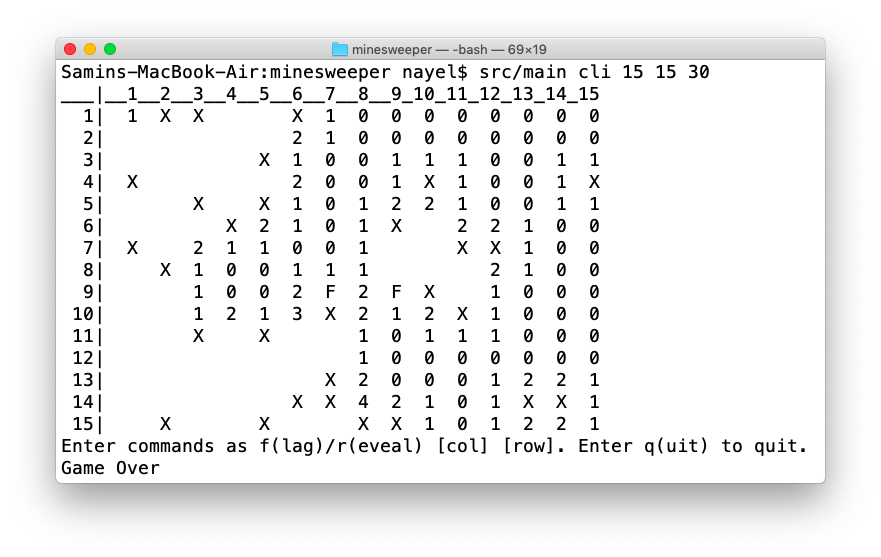
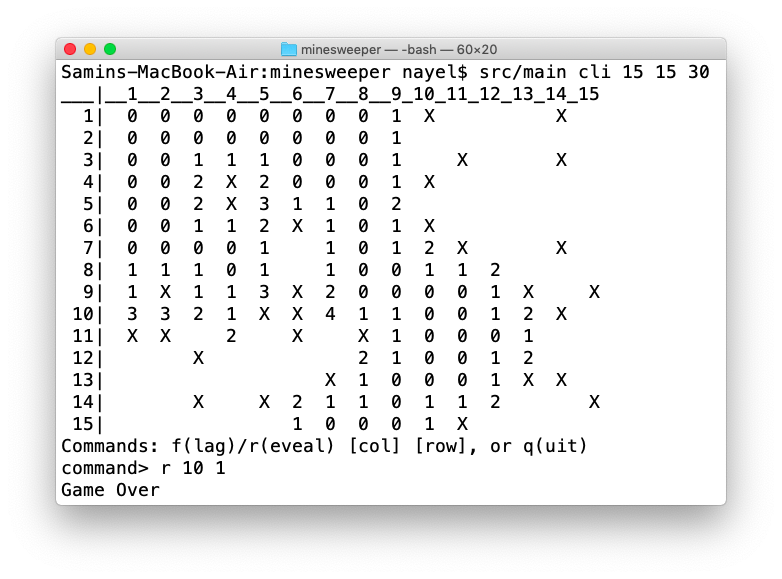
freed getline buffer

diff --git a/cli/cli.c b/cli/cli.c
@@ -3,14 +3,14 @@
 #include <assert.h>
 #include "cli.h"
 
-static const char *erase_line = "\r\e[K";
+static const char *erase_line = "\e[K";
 static const char *go_up = "\e[%dA";
 
 void print_board(const struct board *b) {
 	assert(b);
 	printf("___|");
 	for (int x = 1; x <= b->width; x++) {
-		printf(x < 10? "__%d" : "_%02d", x);
+		printf(x < 10 ? "__%d" : "_%d", x);
 	}
 	printf("\n");
 	for (int y = 1; y <= b->height; y++) {
@@ -23,25 +23,34 @@ void print_board(const struct board *b) {
 }
 
 void print_commands(void) {
-	printf("Enter commands as f(lag)/r(eveal) [col] [row]. Enter q(uit) to quit.\n");
-	printf("command> ");
+	printf("Commands: f(lag)/r(eveal) [col] [row], or q(uit)\n");
+	printf("%scommand> ", erase_line);
 }
 
-static inline int is_digit(char c) { return '0' <= c && c <= '9'; }
+static inline bool is_digit(char c) { return '0' <= c && c <= '9'; }
 
 static inline void ignore_spaces(char *line) { while (*line == ' ') line++; }
 
-// reads two space-separated ints from line and stores them at x and y
-static void read_two_ints(char *line, int *x, int *y) {
+static void parse_command(char *line, char *command, int *x, int *y) {
+	assert(line && command && x && y);
+	char *temp = line;
+
+	ignore_spaces(line);
+	*command = *line; // *command should be the first non-space char in line
+
 	while (line && !is_digit(*line)) { // ignore non-digit characters
 		line++;
 	}
 	*x = atoi(line);
+
 	while (line && is_digit(*line)) { // ignore the digits of *x
 		line++;
 	}
 	ignore_spaces(line);
 	*y = atoi(line);
+
+	// line should originally have been allocated by getline, so free it
+	free(temp);
 }
 
 int play_cli(struct board *b) {
@@ -51,43 +60,41 @@ int play_cli(struct board *b) {
 	// continuously read and execute commands
 	char *line = NULL;
 	size_t n = 0;
+	char command;
 	int x, y;
-	while (getline(&line, &n, stdin)) {
-		ignore_spaces(line);
-		char command = *line;
+	while (getline(&line, &n, stdin) > 0) {
+		parse_command(line, &command, &x, &y);
 		if (command == 'f') {
-			read_two_ints(line, &x, &y);
 			if (flag(b, x, y)) {
 				printf(go_up, b->height + 3);
 				print_board(b);
-				print_commands();
 			} else {
-				printf(go_up, 1);
+				printf(go_up, 2);
 			}
 		} else if (command == 'r') {
-			read_two_ints(line, &x, &y);
 			if (reveal(b, x, y)) {
 				printf(go_up, b->height + 3);
 				print_board(b);
-				print_commands();
 				if (game_won(b)) {
-					printf("%sWell Done\n", erase_line);
+					printf("\n\n%sWell Done\n", erase_line);
 					return EXIT_SUCCESS;
 				} else if (game_lost(b)) {
-					printf("%sGame Over\n", erase_line);
+					printf("\n\n%sGame Over\n", erase_line);
 					return EXIT_SUCCESS;
 				}
 			} else {
-				printf(go_up, 1);
+				printf(go_up, 2);
 			}
 		} else if (command == 'q') {
 			return EXIT_SUCCESS;
 		} else {
-			printf(go_up, 1);
+			printf(go_up, 2);
 		}
 		line = NULL;
-		printf("%scommand> ", erase_line);
+		print_commands();
 	}
 
+	// if getline failed, we still need to free line
+	free(line); 
 	return EXIT_FAILURE;
 }

diff --git a/README.md b/README.md
@@ -15,17 +15,13 @@ Download the repository, open it in terminal and run `make`. To play, enter
 - The player chooses the grid dimensions and the number of mines.
 - (GUI version) Colour-coded button labels.
 - (GUI version) Left-clicking on a cell reveals it, right-clicking on a cell flags/unflags it.
-- (CLI version) Independent terminal.
+- (CLI version) Separate terminal.
 - (CLI version) Spaces and invalid commands are ignored.
 
 # CLI Screenshots
-![CLI Start](screenshots/cli_start.png)
-
-![CLI Play](screenshots/cli_play.png)
-
-![CLI Won](screenshots/cli_won.png)
-
-![CLI Lost](screenshots/cli_lost.png)
+![CLI Start](screenshots/cli_start.png)|![CLI Play](screenshots/cli_play.png)
+:-------------------------------------:|:-----------------------------------:
+![CLI Won](screenshots/cli_won.png)    |![CLI Lost](screenshots/cli_lost.png)
 
 # GUI Screenshots
 ![GUI Start](screenshots/gui_start.png)
